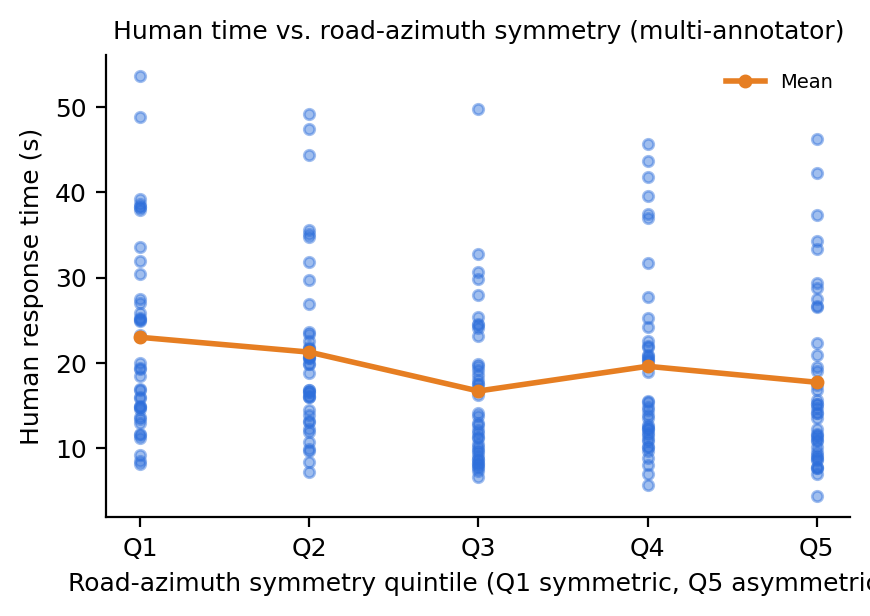
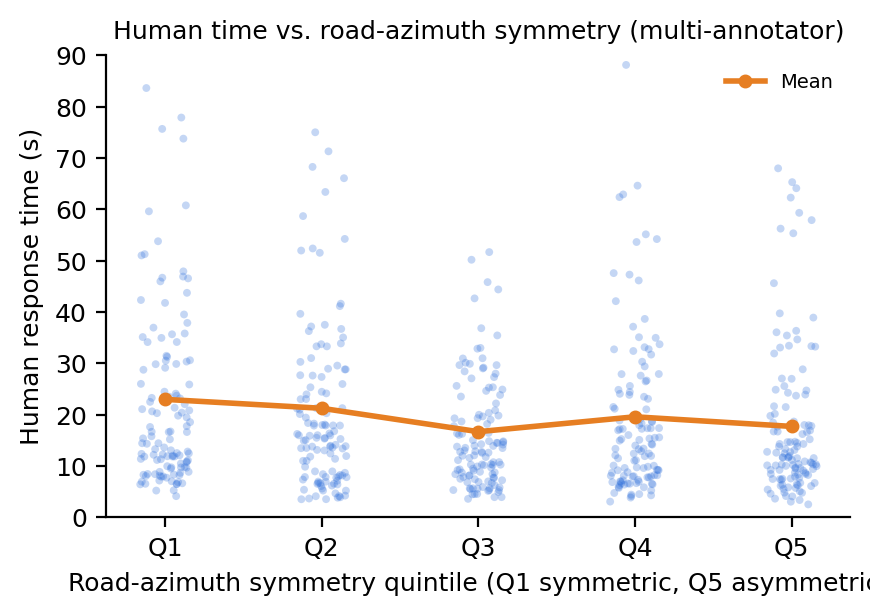
symmetry-vs-time: plot individual annotator RTs to preserve spread
The per-problem mean smoothed away the within-bin spread the figure argues for.
Switch to individual annotator x problem RTs (jittered): Q1 (symmetric) shows the
widest spread / slowest examples, Q5 (asymmetric) is tightest (lowest std, p90,
max) -- supports 'symmetry bounds but does not determine difficulty'. Caption
updated accordingly.

diff --git a/analysis/human_baseline_figs.py b/analysis/human_baseline_figs.py
@@ -208,18 +208,25 @@ Sval = {pid: s for pid, s in Sval.items() if s is not None and pid in prt}
 ordered = sorted(Sval, key=lambda p: Sval[p])          # ascending S: Q1 = symmetric
 nq = len(ordered)
 qbin = {pid: min(4, i * 5 // nq) for i, pid in enumerate(ordered)}
+# Plot INDIVIDUAL annotator x problem RTs (preserves within-bin spread, which is
+# the actual claim) rather than the per-problem mean, which smooths it away.
+rng = np.random.default_rng(0)
 fig, ax = plt.subplots(figsize=(4.8, 3.0))
-ax.scatter([qbin[p] + 1 for p in ordered], [prt[p] for p in ordered],
-           s=14, alpha=0.45, color="#2e6fdb")
+xs, ys = [], []
+for p in ordered:
+    for a in ENG3:
+        if p in rtp[a]:
+            xs.append(qbin[p] + 1 + rng.uniform(-0.16, 0.16)); ys.append(rtp[a][p])
+ax.scatter(xs, ys, s=8, alpha=0.28, color="#2e6fdb", edgecolors="none")
 mx, my = [], []
 for b in range(5):
-    bt = [prt[p] for p in ordered if qbin[p] == b]
+    bt = [rtp[a][p] for p in ordered if qbin[p] == b for a in ENG3 if p in rtp[a]]
     if bt:
         mx.append(b + 1); my.append(float(np.mean(bt)))
-ax.plot(mx, my, color="#e67e22", lw=2, marker="o", ms=4, label="Mean")
+ax.plot(mx, my, color="#e67e22", lw=2, marker="o", ms=4, label="Mean", zorder=3)
 ax.set_xticks([1, 2, 3, 4, 5]); ax.set_xticklabels(["Q1", "Q2", "Q3", "Q4", "Q5"])
 ax.set_xlabel("Road-azimuth symmetry quintile (Q1 symmetric, Q5 asymmetric)")
-ax.set_ylabel("Human response time (s)")
+ax.set_ylabel("Human response time (s)"); ax.set_ylim(0, 90)
 ax.set_title("Human time vs. road-azimuth symmetry (multi-annotator)", fontsize=9)
 ax.legend(fontsize=7, frameon=False)
 save(fig, "symmetry_vs_time_multi")

diff --git a/publications/icml2026/2026-01-28/m2sv_paper.tex b/publications/icml2026/2026-01-28/m2sv_paper.tex
@@ -592,11 +592,13 @@ bound} on difficulty but does not determine the realized difficulty of an exampl
   \includegraphics[width=\linewidth]{figures/symmetry_vs_time_multi.png}
   \caption{
     \textbf{Human response time vs.\ road-azimuth symmetry (multi-annotator).}
-    Each point is one of the 200 analysis examples; the $y$-value is the mean
-    response time across the engaged annotators who completed all 200 items, and
+    Each point is one annotator's response time on one example, pooled over the
+    engaged annotators who completed all 200 items (horizontally jittered);
     examples are binned into symmetry quintiles of $S$ (Eq.~\ref{eq:symmetry};
-    Q1 symmetric, Q5 asymmetric). Symmetric intersections show a wide spread of
-    response times, while asymmetric ones are uniformly fast.
+    Q1 symmetric, Q5 asymmetric). Symmetric intersections (Q1) show the widest
+    spread and the slowest examples, whereas asymmetric intersections (Q5) are
+    uniformly fast (lowest spread, 90th percentile, and maximum), so structural
+    symmetry bounds difficulty without determining it.
   }
   \label{fig:human-time-vs-symmetry}
 \end{figure}
